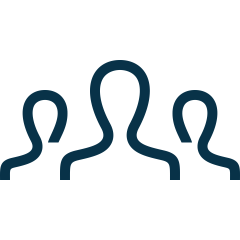
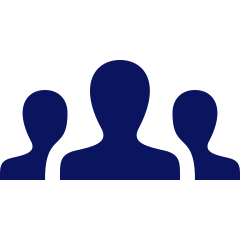
Updated minor styling changes, page layout, colors and image additions to fix color schemes

Changed region(s): [[0.2333, 0.2333, 0.7583, 0.7583], [0.7, 0.3792, 1.0, 0.7583], [0.0, 0.35, 0.2917, 0.7583]]

diff --git a/src/Navigation.jsx b/src/Navigation.jsx
@@ -62,17 +62,17 @@ function Navigation() {
             </NavbarItem>
           </NavbarContent>
 
-          <NavbarMenu  className="bg-White text-Blue transition ease-in-out delay-50 ">
-            <NavbarMenuItem >
+          <NavbarMenu  className="bg-White flex flex-col justify-center items-center text-Blue transition ease-in-out delay-50 ">
+            <NavbarMenuItem className='mb-10 -mt-40' >
               <Link
               onClick={()=>setIsMenuOpen(false)}
-                className="w-full text-4xl font-bold  hover:text-blue-300 transition ease-in-out delay-100 my-10"
+                className="w-full text-4xl font-bold hover:text-blue-700 transition ease-in-out delay-100 "
                 to='/'
               >
                 Home
               </Link>
             </NavbarMenuItem>
-            <NavbarMenuItem>
+            <NavbarMenuItem className='mb-10'>
               <Link
               onClick={()=>setIsMenuOpen(false)}
                 className="w-full text-4xl font-bold  hover:text-blue-300 transition ease-in-out delay-100"
@@ -81,7 +81,7 @@ function Navigation() {
                 Services
               </Link>
             </NavbarMenuItem>
-            <NavbarMenuItem>
+            <NavbarMenuItem className='mb-10'>
               <Link
               onClick={()=>setIsMenuOpen(false)}
                 className="w-full text-4xl font-bold  hover:text-blue-300 transition ease-in-out delay-100"
@@ -90,7 +90,7 @@ function Navigation() {
                 Team Luna
               </Link>
             </NavbarMenuItem>
-            <NavbarMenuItem>
+            <NavbarMenuItem className='mb-10'>
               <Link
               onClick={()=>setIsMenuOpen(false)}
                 className="w-full text-4xl font-bold  hover:text-blue-300 transition ease-in-out delay-100"

diff --git a/src/pages/Home.jsx b/src/pages/Home.jsx
@@ -1,9 +1,9 @@
 import { Link } from "react-router-dom"
 function Home() {
-  const servicesArray = [
+  const valuesArray = [
     {
       title: 'Empathy', 
-      image: '/gavel1.png'
+      image: '/empathy.png'
     },
     {
       title: 'Integrity', 
@@ -55,19 +55,19 @@ function Home() {
         <img className="w-[40vh] m-5" src="/lawconvo.jpg" alt="" />
       </div>
 
-      <section id="valuesSection" className=" bg-white w-full mb-20">
+      <section id="valuesSection" className=" bg-White w-full mb-20">
         <div id="text" className="flex flex-col items-center ">
           <span className="mt-10 mb-10 text-5xl font-bold text-Blue">Our Values</span>
         </div>
         <ul id="group" className="grid grid-cols-2 md:grid md:grid-cols-3 mx-10">
-            {servicesArray.map((obj, index) => {
+            {valuesArray.map((obj, index) => {
               const {title, image} = obj
               return <li key={index} className="flex flex-col m-2  sm:p-5 items-center p-2">
                       <picture className="justify-center">
                           <img src={image} style={{width: "100px"}} alt="pic" />
                       </picture>
                       <div>
-                          <h3 className="font-bold text-xl text-Blue">{title}</h3>
+                          <h3 className="font-bold text-xl mt-4 text-Blue">{title}</h3>
                       </div>
                     </li>
             })}

diff --git a/src/Footer.jsx b/src/Footer.jsx
@@ -44,7 +44,7 @@ function Footer() {
                                 <div className="flex flex-col mt-1 max-w-full w-[502px]">
                                 <nav className="flex gap-5 max-md:flex-wrap max-md:max-w-full mx-auto">
                                     {navLinks.map((link, index) => (
-                                    <Link key={index} to={handleLinks(link.label)}  onClick={()=>scroll.scrollToTop()} className="text-violet-950 max-md:basis-full hover:cursor-pointer hover:underline hover:underline-offset-1 hover:decoration-Blue">{link.label}</Link>
+                                    <Link key={index} to={handleLinks(link.label)}  onClick={()=>scroll.scrollToTop()} className="text-Blue text-xl max-md:basis-full hover:cursor-pointer hover:underline hover:underline-offset-1 hover:decoration-Blue">{link.label}</Link>
                                     ))}
                                 </nav>
                                 <div className="self-center mt-9 text-center text-slate-900 text-opacity-40 max-md:max-w-full">

diff --git a/tailwind.config.js b/tailwind.config.js
@@ -25,12 +25,12 @@ module.exports = {
         libre: ["Libre Bodoni"],
       },
       colors: {
-        Blue: "#000b59",
+        Blue: "#0A145F",
         Alt: "#191970",
         White: "#F4FDFF",
         Dark: "#080708",
         Nav: "#d3dce4",
-        Gold: "#DBA858",
+        Silver: "#AAA9AC",
         border: "hsl(var(--border))",
         input: "hsl(var(--input))",
         ring: "hsl(var(--ring))",
